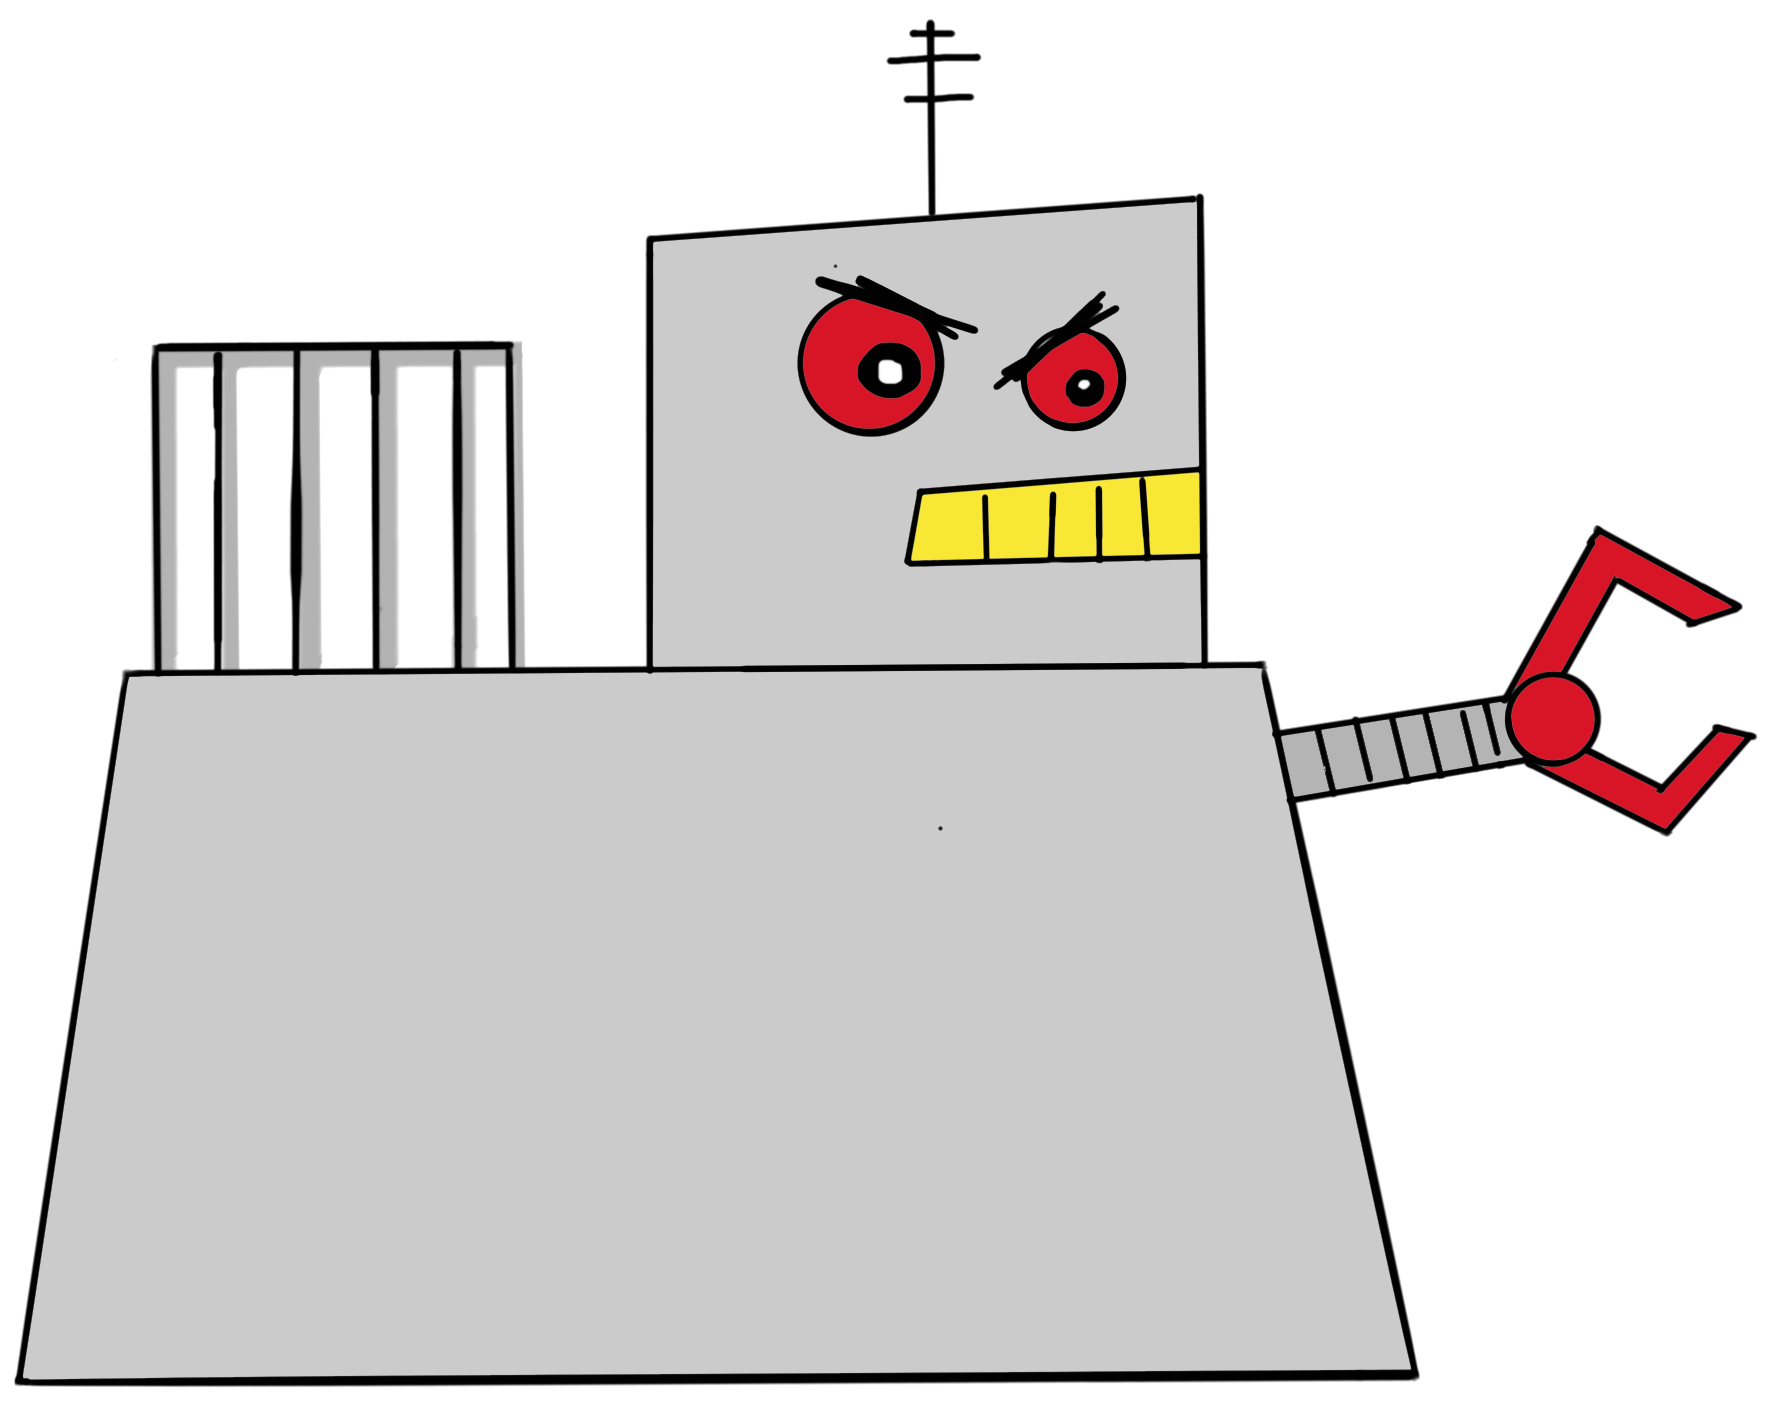
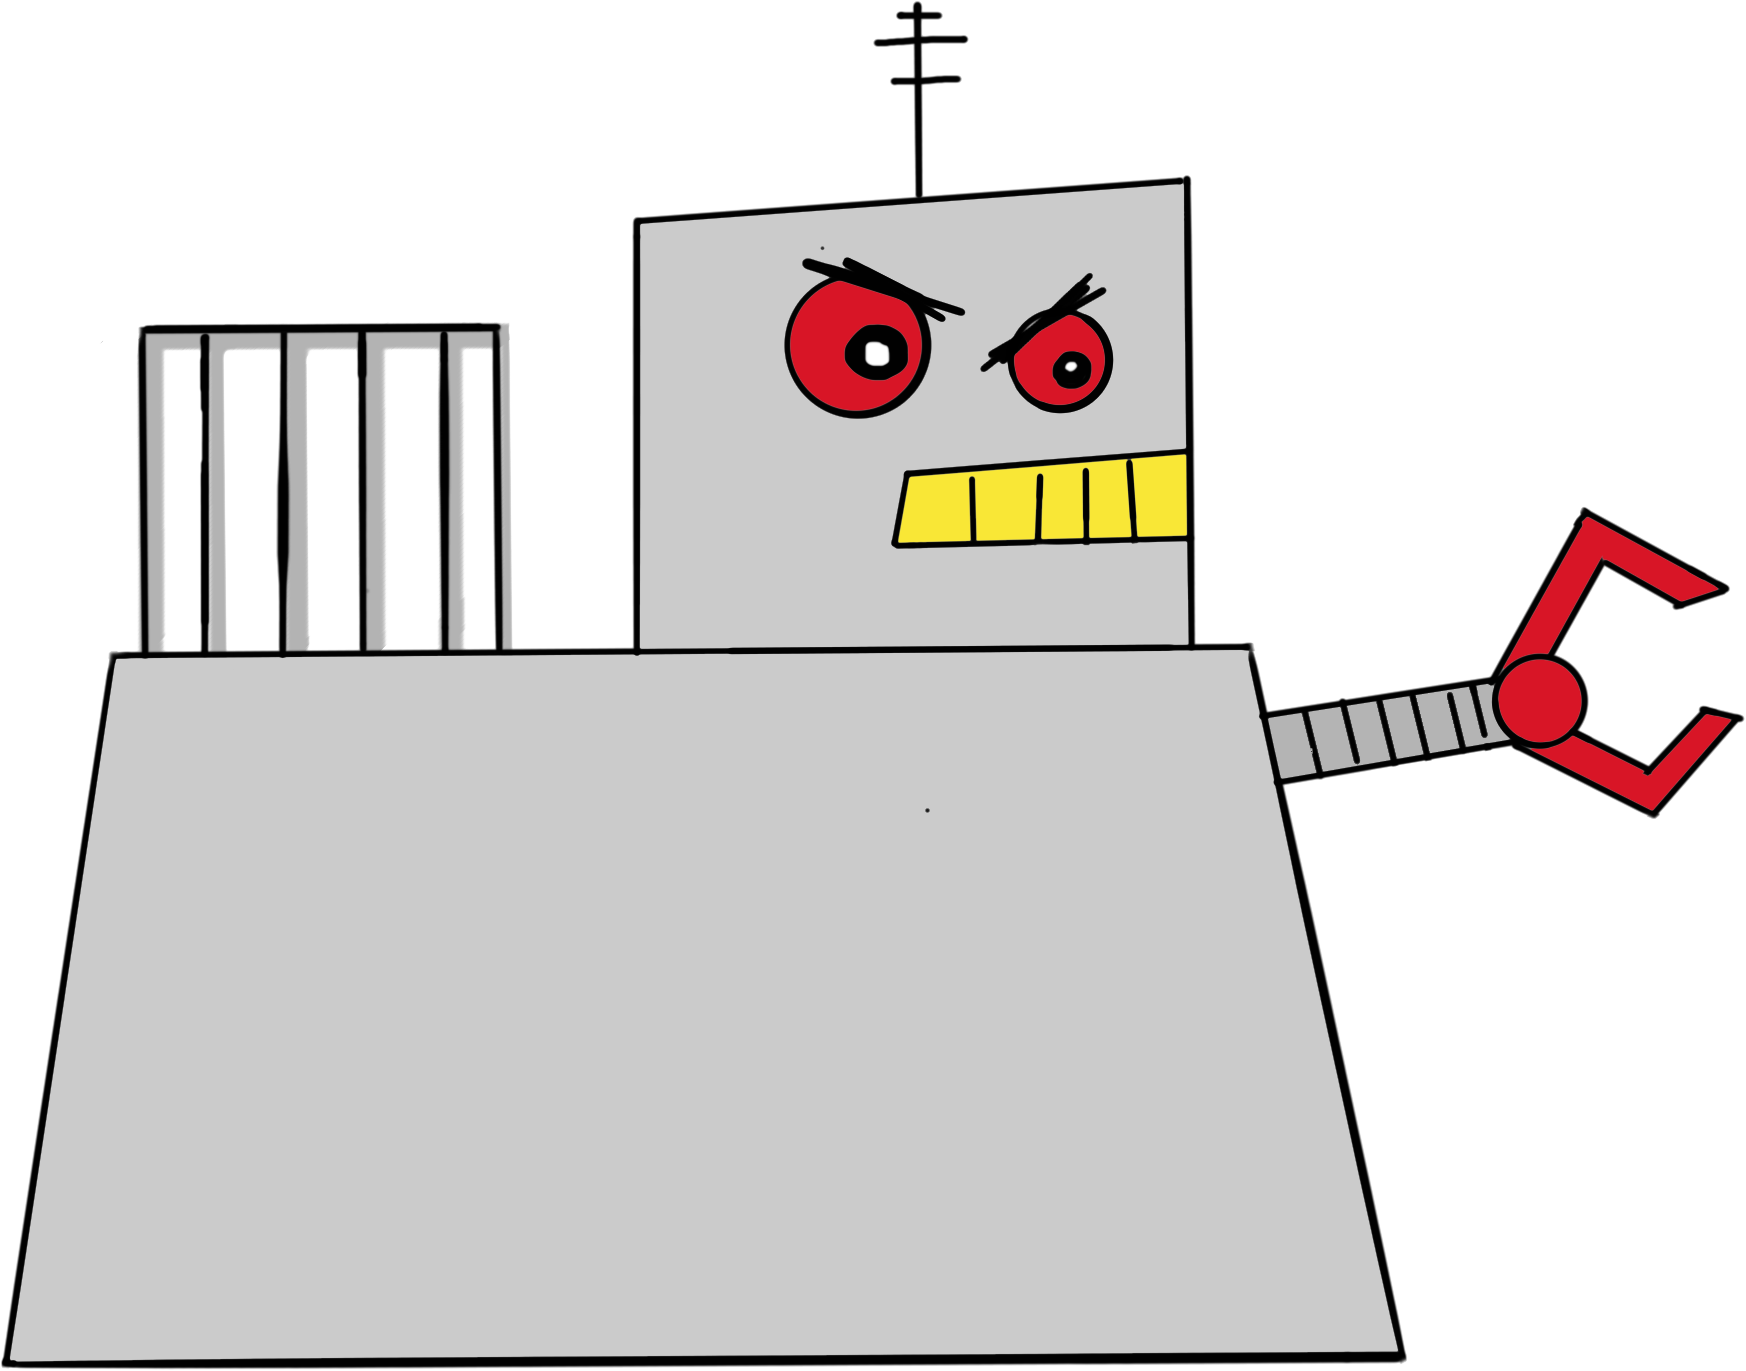
will have to refactor robot for break points

Changed region(s): [[0.0, 0.1225, 1.0, 1.0], [0.4948, 0.0, 0.5567, 0.0919]]

diff --git a/index.html b/index.html
@@ -44,31 +44,34 @@
             <div class="col-1 spacer"></div>
             <div id="wrongWrap" class="col-1 col-md-2 d-flex flex-wrap flex-row"></div>
             <div id="robotWrap" class="col-3  col-md-4" alt="the Guessatronic robot">
-                <div id="roboTopSpacer" class="row"></div>
-                <div id="cageWrap" class="row">
-                    <div class="col-1 spacer"></div>
-                    <div id="cage" class="col-3 text-left"></div>
-                    <div class="col-8 spacer"></div>
-                </div>
-                <div id="roboInfoWrap" class="row">
-                    <div class="col-1 spacer"></div>
-                    <div id="guessWrap" class="col-2">
-                        <input id="guessBox" alt="Guess a letter here"/>
-                        <button id="guessButton" class="text-center">GUESS</button>
+                <img src="images/robot.png" id="ROBOT" class="img-fluid">
+                <div id="ROBOTonTOP" class="container-fluid">
+                    <div id="roboTopSpacer" class="row"></div>
+                    <div id="cageWrap" class="row">
+                        <div class="col-1 spacer"></div>
+                        <div id="cage" class="col-3 text-left"></div>
+                        <div class="col-8 spacer"></div>
                     </div>
-                    <div class="col-1 spacer"></div>
-                    <div id="timerWrap" class="col-2 text-center">
-                        <h4>TIMER</h4>
-                        <h3 id="timer" alt="seconds left in game"></h3>
+                    <div id="roboInfoWrap" class="row">
+                        <div class="col-1 spacer"></div>
+                        <div id="guessWrap" class="col-2">
+                            <input id="guessBox" alt="Guess a letter here"/>
+                            <button id="guessButton" class="text-center">GUESS</button>
+                        </div>
+                        <div class="col-1 spacer"></div>
+                        <div id="timerWrap" class="col-2 text-center">
+                            <h4>TIMER</h4>
+                            <h3 id="timer" alt="seconds left in game"></h3>
+                        </div>
+                        <div class="col-1 spacer"></div>
+                        <div id="barometer" class="col-1"></div>
+                        <div class="col-4 spacer"></div>
                     </div>
-                    <div class="col-1 spacer"></div>
-                    <div id="barometer" class="col-1"></div>
-                    <div class="col-4 spacer"></div>
-                </div>
-                <div id="goodWrap" class="row">
-                    <div class="col-1 spacer"></div>
-                    <div id="goodGuesses" class="col-8"></div>
-                    <div class="col-3 spacer"></div>
+                    <div id="goodWrap" class="row">
+                        <div class="col-1 spacer"></div>
+                        <div id="goodGuesses" class="col-8"></div>
+                        <div class="col-3 spacer"></div>
+                    </div>
                 </div>
             </div>
             <div class="col-5 col-md-3 col-lg-4 spacer"></div>

diff --git a/style.css b/style.css
@@ -106,12 +106,23 @@ body{
 /*start robot*/
 #robotWrap{
     width:100%;
-    height:40vh;
-    background-image: url('./images/robot.png');
     background-repeat: no-repeat;
     background-size: contain;
     z-index:2000;
     padding:0px;
+    position: relative;
+}
+#ROBOT{
+    position: absolute;
+    bottom:0;
+    left:0;
+}
+#ROBOTonTOP{
+    position: absolute;
+    bottom:.5rem;
+    left:0;
+    z-index:3000;
+    padding: 0;
 }
 #roboTopSpacer{
     height:24%;
@@ -120,8 +131,7 @@ body{
     height:24%;
 }
 #roboInfoWrap{
-    height:40%;
-    z-index:3000;
+    height:30%;
 }
 #guessBox{
     width:100%;
@@ -151,18 +161,16 @@ body{
     font-weight: 700;
 }
 #barometer{
-    height:90%;
-    width:80%;
     border: .125rem solid rgb(216,21,38);
-    border-radius: .5rem;
+    border-radius: 2rem;
     background-image: url('./images/redsquare.png');
     background-repeat: no-repeat;
-    background-size: 10%;
+    background-size: 100%;
     background-position: 0% 100%;
 }
 #goodWrap{
     z-index:3001;
-    height:12%;
+    height:1.8rem;
 }
 #goodGuesses{
     font-family: 'Nanum Gothic','Roboto',sans-serif;
